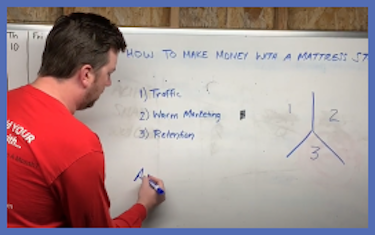
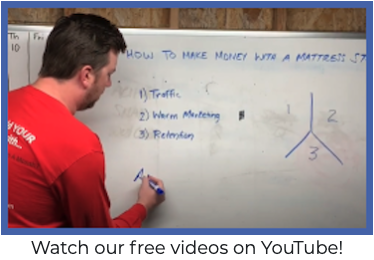
Fixed some issues with text drifting

diff --git a/index.html b/index.html
@@ -69,15 +69,7 @@
                 </div>
                 <div class="col-3" id="headshot">
                     <div class="row">
-                        <img src="assets/img/james-pic.png" alt="jamescluster" class="ml-auto">
-                    </div>
-                    <div class="ml-1">
-                        <div class="row ml-1">
-                            <p class="font-weight-bold mx-auto">James Cluster</p>
-                        </div>
-                        <div class="row ml-1">
-                            <p class="font-weight-bold mx-auto mt-n4">CEO</p>
-                        </div>
+                        <img src="assets/img/headshot-text.png" alt="jamescluster" class="ml-auto">
                     </div>
                 </div>
             </div>
@@ -112,9 +104,6 @@
                     <div class="col-lg-5">
                         <div class="row d-flex justify-content-lg-end">
                             <a href="https://www.youtube.com/user/torchbearerfilms" target="_blank"><img src="assets/img/video-link.png" alt="video-still" class="img-fluid"></a>
-                        </div>
-                        <div class="row d-flex justify-content-lg-center">
-                            <p>Watch our free videos on YouTube!</p>
                         </div>
                     </div>
                 </div>

diff --git a/assets/styles/style.css b/assets/styles/style.css
@@ -7,7 +7,6 @@ body {
     margin-right: auto;
     font-size: 18px;
     font-family: 'Montserrat', sans-serif;
-    /* background: url("https://st2.depositphotos.com/4371877/8062/v/600/depositphotos_80620102-stock-illustration-mattress-seamless-pattern-design.jpg"); */
 }
 
 nav {
